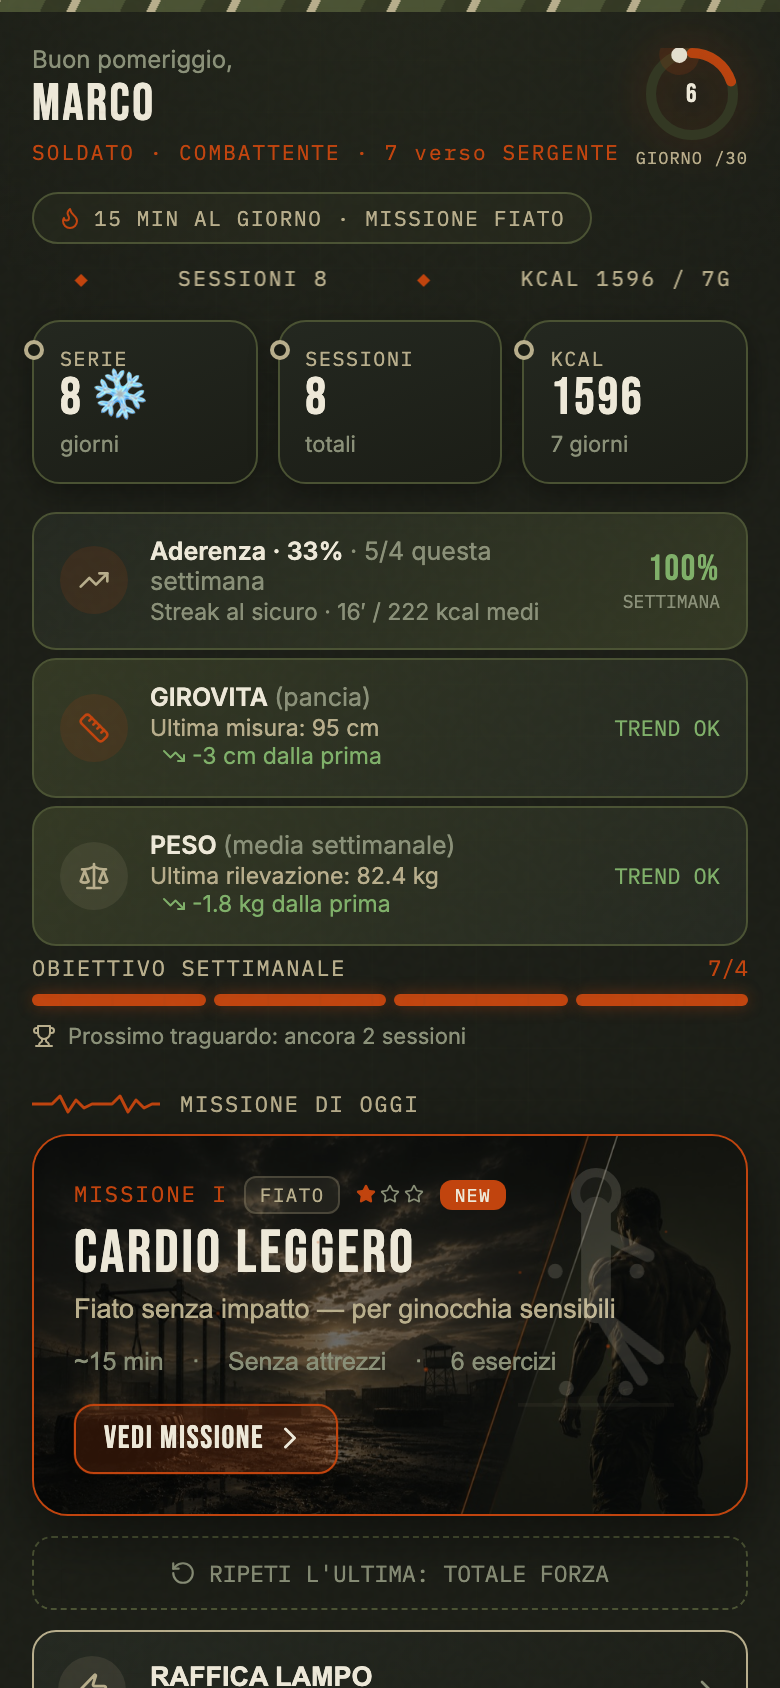
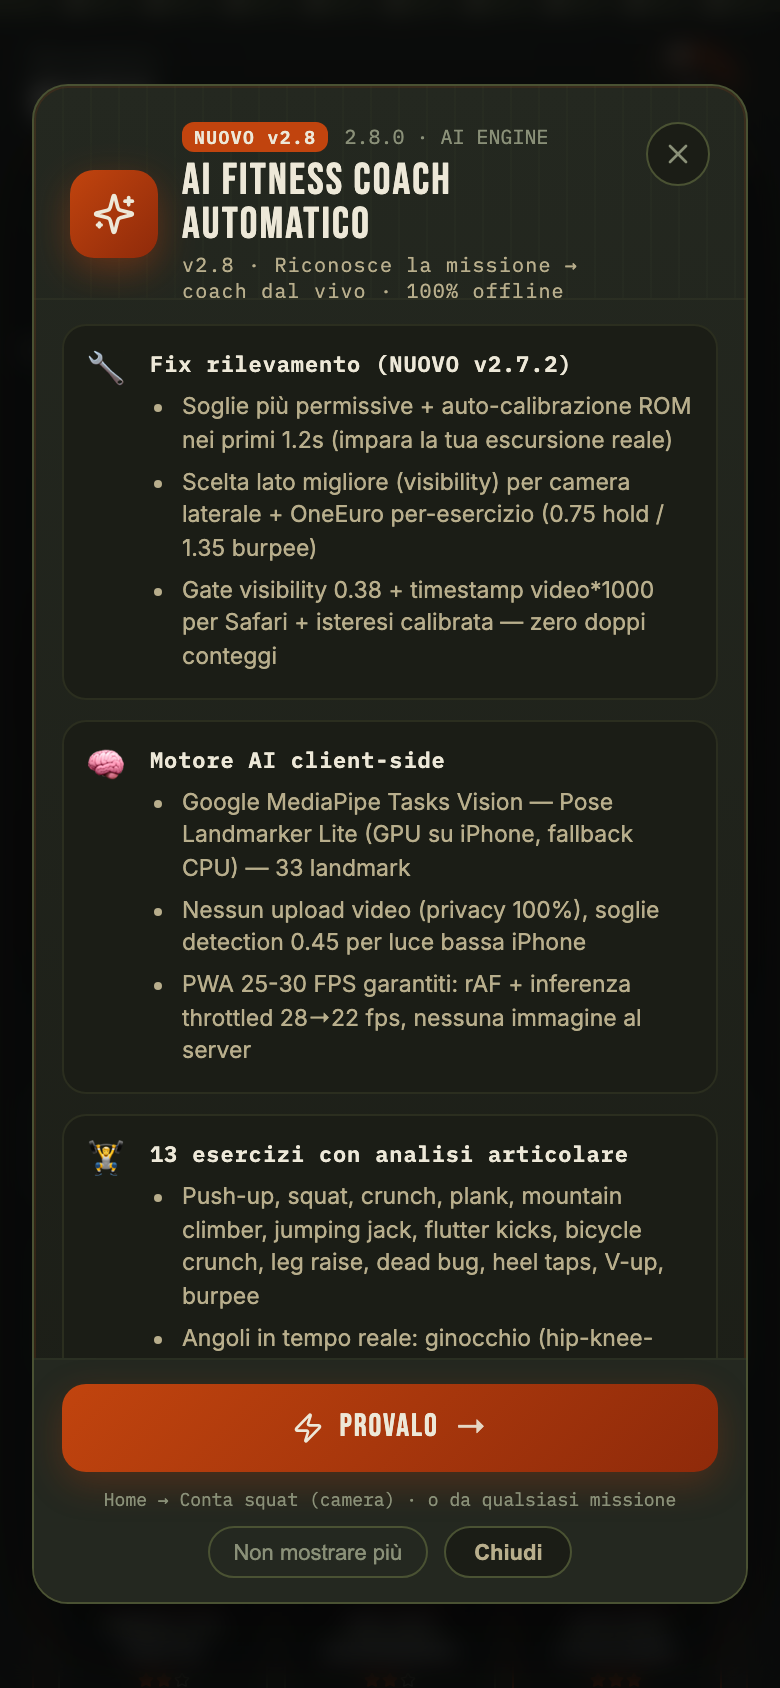
docs: refresh 01-home screenshot (v2.8 AI) + rebuild o40-vd0632aa6
- 01-home.png regenerated via Playwright 390×844 @2x (314K)
- dist o40-vd0632aa6 from README/STRUCTURE English update
- next: 06-ai-debug.png with ◇ DEBUG HUD tomorrow

diff --git a/dist/assets/index-CW7GlnDc.js b/dist/assets/index-CW7GlnDc.js
@@ -1,4 +1,4 @@
-const __vite__mapDeps=(i,m=__vite__mapDeps,d=(m.f||(m.f=["./media-D822widh.js","./icons-CNn8_pbx.js","./charts-BGQLz4RT.js","./web-DHqXzWLc.js"])))=>i.map(i=>d[i]);
+const __vite__mapDeps=(i,m=__vite__mapDeps,d=(m.f||(m.f=["./media-CBUtKRQf.js","./icons-CNn8_pbx.js","./charts-BGQLz4RT.js","./web-De2xdu5K.js"])))=>i.map(i=>d[i]);
 import { r as reactExports, T as Trophy, a as Timer, C as Check, b as ChevronRight, R as React, S as Sparkles, X, Z as Zap, d as ShieldCheck, F as Flame, e as RefreshCw, E as Eye, V as Volume2, f as VolumeX, h as Vibrate, i as SkipForward, M as Music, j as Music2, H as HeadphoneOff, k as ChevronLeft, l as Crown, m as Medal, B as Bell, n as BellOff, o as Send, p as HeartPulse, I as Info, q as Star, s as RotateCcw, t as Target, u as BookOpen, v as TrendingUp, L as Lightbulb, w as Ruler, x as TrendingDown, y as Scale, z as Settings, A as Trash2, P as Plus, W as Wind, D as Play, G as Pause, J as House, K as History } from "./icons-CNn8_pbx.js";
 import { r as reactDomExports, R as ResponsiveContainer, B as BarChart, C as CartesianGrid, X as XAxis, Y as YAxis, T as Tooltip, a as Bar, L as LineChart, b as Line } from "./charts-BGQLz4RT.js";
 (function polyfill() {
@@ -8062,7 +8062,7 @@ function getBellyMissions({ sessions, profile, waistHistory }) {
     return (counts[a.id] || 0) - (counts[b.id] || 0);
   }).map((p2) => ({ ...p2, _needsBelly: needsBelly }));
 }
-const BUILD_VERSION = "2.8.3 · 6ab3c63";
+const BUILD_VERSION = "2.8.3 · 2739256";
 function VersionBadge({ onClick }) {
   return /* @__PURE__ */ jsxRuntimeExports.jsxs(
     "div",
@@ -8179,7 +8179,7 @@ function useT() {
 }
 let _mediaPromise = null;
 function getMediaMap() {
-  if (!_mediaPromise) _mediaPromise = __vitePreload(() => import("./media-D822widh.js"), true ? __vite__mapDeps([0,1,2]) : void 0, import.meta.url).then((m2) => ({ b64: m2.VIDEO_B64, files: m2.VIDEO_FILES }));
+  if (!_mediaPromise) _mediaPromise = __vitePreload(() => import("./media-CBUtKRQf.js"), true ? __vite__mapDeps([0,1,2]) : void 0, import.meta.url).then((m2) => ({ b64: m2.VIDEO_B64, files: m2.VIDEO_FILES }));
   return _mediaPromise;
 }
 function ExerciseMedia({ exerciseId, pose, color = BLAZE, size = "100%", rounded = 10 }) {
@@ -12441,7 +12441,7 @@ registerPlugin("CapacitorHttp", {
   web: () => new CapacitorHttpPluginWeb()
 });
 const Preferences = registerPlugin("Preferences", {
-  web: () => __vitePreload(() => import("./web-DHqXzWLc.js"), true ? __vite__mapDeps([3,1,2]) : void 0, import.meta.url).then((m2) => new m2.PreferencesWeb())
+  web: () => __vitePreload(() => import("./web-De2xdu5K.js"), true ? __vite__mapDeps([3,1,2]) : void 0, import.meta.url).then((m2) => new m2.PreferencesWeb())
 });
 const instanceOfAny = (object, constructors) => constructors.some((c) => object instanceof c);
 let idbProxyableTypes;

diff --git a/dist/index.html b/dist/index.html
@@ -17,7 +17,7 @@
     <link rel="apple-touch-icon" href="./icons/icon-180.png" />
     <link rel="icon" type="image/png" href="./icons/icon-192.png" />
     <title>Operator 40 — Allenamento over 40</title>
-    <script type="module" crossorigin src="./assets/index-DE0EYlgM.js"></script>
+    <script type="module" crossorigin src="./assets/index-CW7GlnDc.js"></script>
     <link rel="modulepreload" crossorigin href="./assets/icons-CNn8_pbx.js">
     <link rel="modulepreload" crossorigin href="./assets/charts-BGQLz4RT.js">
   </head>

diff --git a/dist/sw.js b/dist/sw.js
@@ -2,7 +2,7 @@
    Same-origin assets are hashed by Vite (immutable) so cache-first is safe;
    navigations are network-first with the cached shell as offline fallback. */
 
-const CACHE = 'o40-v72d43729';
+const CACHE = 'o40-vd0632aa6';
 
 // Clip critici per le prime 3 missioni + pancia — precache per offline immediato (~14M, non blocca install se fallisce)
 const PRECACHE_CLIPS = [

diff --git a/dist/assets/web-De2xdu5K.js b/dist/assets/web-De2xdu5K.js
@@ -1,4 +1,4 @@
-import { W as WebPlugin } from "./index-DE0EYlgM.js";
+import { W as WebPlugin } from "./index-CW7GlnDc.js";
 import "./icons-CNn8_pbx.js";
 import "./charts-BGQLz4RT.js";
 class PreferencesWeb extends WebPlugin {

diff --git a/dist/assets/media-CBUtKRQf.js b/dist/assets/media-CBUtKRQf.js
@@ -1,4 +1,4 @@
-import { C } from "./index-DE0EYlgM.js";
+import { C } from "./index-CW7GlnDc.js";
 import "./icons-CNn8_pbx.js";
 import "./charts-BGQLz4RT.js";
 const VIDEO_B64 = {
